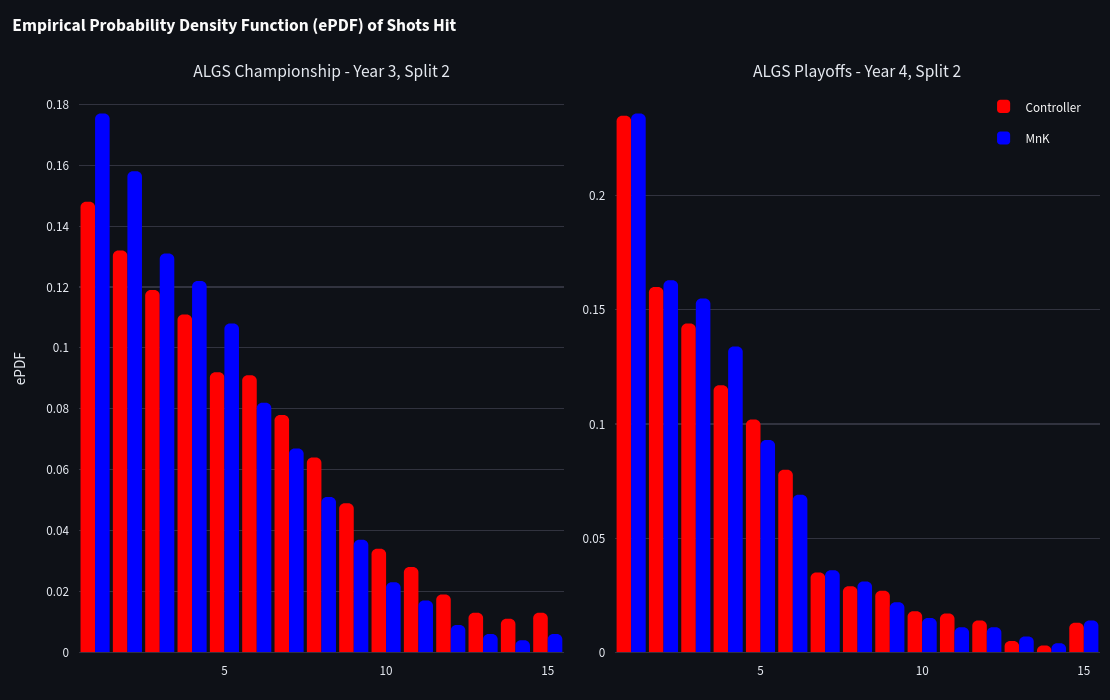
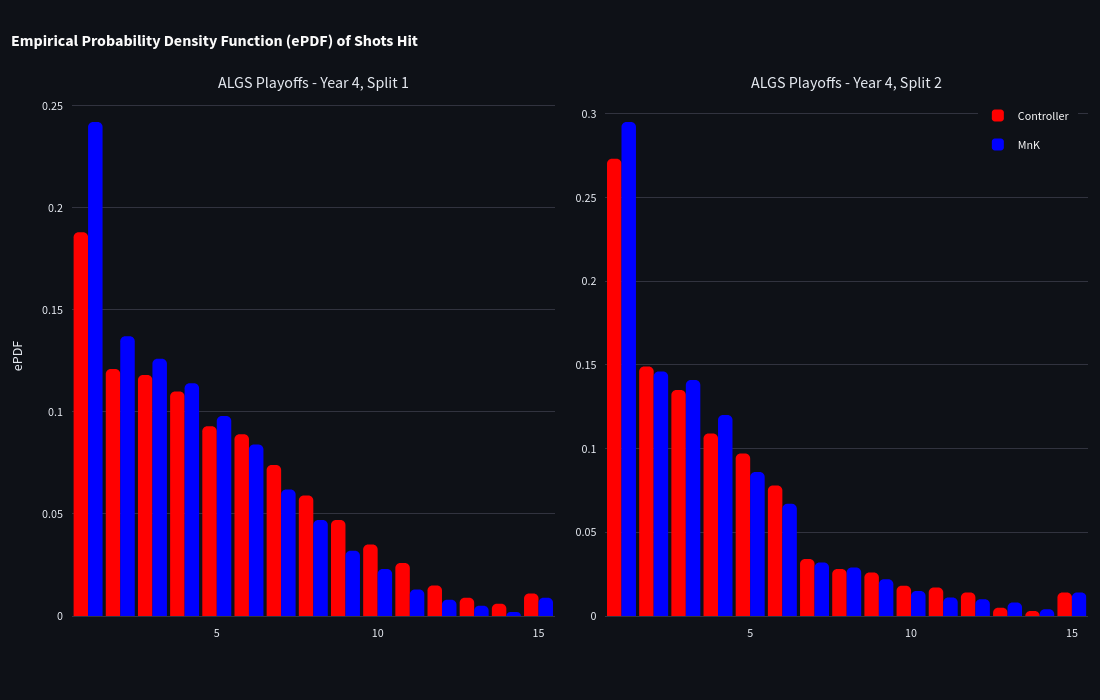
Add game input parity

diff --git a/pages/21_Game_Input_Parity.py b/pages/21_Game_Input_Parity.py
@@ -467,10 +467,15 @@ shots_hit_clip = st.sidebar.number_input("Max Shots Hit",
                                          value=15,
                                          key="shots_hit_clip")
 
-distance_threshold = 40
+selected_distance = st.sidebar.number_input("Distance Threshold",
+                                            min_value=0,
+                                            max_value=1000,
+                                            value=40,
+                                            key="selected_distance")
 
-close_range_damage_events_a_df = damage_events_a_df.loc[damage_events_a_df["distance"] <= distance_threshold]
-close_range_damage_events_b_df = damage_events_b_df.loc[damage_events_b_df["distance"] <= distance_threshold]
+
+close_range_damage_events_a_df = damage_events_a_df.loc[damage_events_a_df["distance"] <= selected_distance]
+close_range_damage_events_b_df = damage_events_b_df.loc[damage_events_b_df["distance"] <= selected_distance]
 
 with st.spinner("Building plots..."):
     plots_dict, raw_data = discrepancy_plot_builder(close_range_damage_events_a_df,

diff --git a/docs/posts/mnk_vs_controller/post.md b/docs/posts/mnk_vs_controller/post.md
@@ -12,7 +12,7 @@ By leveraging data from [ALS](https://www.patreon.com/hugodev), I can compare th
 
 ## Related Work
 
-There has been several attempts to investigate the parity between controller and MnK in Apex Legends. [_sinxl_](reddit.com/user/_sinxl_) conducted a [statsitical analysis](reddit.com/r/CompetitiveApex/comments/10ywjdq/statistical_analysis_of_controllermk_at_algs/) on the performance of controller and MnK players in the ALGS 2023 London tournament using kills per player. They report statistically significant difference between the two input methods. Compared to their work, this analysis is far more granular since it considers shots hit for every time a player deals damage. The combined number of close range (<40 meters) damage events using close range weapons for ALGS Playoffs Y4, Splits 1 and 2 sums up to 62,535. 
+There has been several attempts to investigate the parity between controller and MnK in Apex Legends. [_sinxl_](reddit.com/user/_sinxl_) conducted a [statistical analysis](reddit.com/r/CompetitiveApex/comments/10ywjdq/statistical_analysis_of_controllermk_at_algs/) on the performance of controller and MnK players in the ALGS 2023 London tournament using kills per player. They report statistically significant difference between the two input methods. Compared to their work, this analysis is far more granular since it considers shots hit for every time a player deals damage. The combined number of close range (<40 meters) damage events using close range weapons for ALGS Playoffs Y4, Splits 1 and 2 sums up to 62,535. 
 
 In another [analysis](https://www.reddit.com/r/CompetitiveApex/comments/1azzuch/i_charted_out_the_kbm_vs_controller_accuracy_kd/?share_id=RmzGkqlhKSFpDgqNPVz0z), the user [giraffes-are-weird](https://www.reddit.com/user/giraffes-are-weird/) had presented a visualization of accuracy of top 500 R5 Reloaded (aim trainer based on Apex Legends) players. The visualization demonstrates an 8% average accuracy difference between MnK and controller players. This analysis is similar to the current work in that it compares the performance of MnK and controller players, but it focuses on accuracy rather than shots hit. This is because the events feed data does not provide information on shots missed. It is not clear how R5 Reloaded accuracy is reported. Furthermore, the performance in R5 Reloaded might not be directly transferable to the actual game as it lacks the complexity and the pressure of a real game in a tournament. 
 
